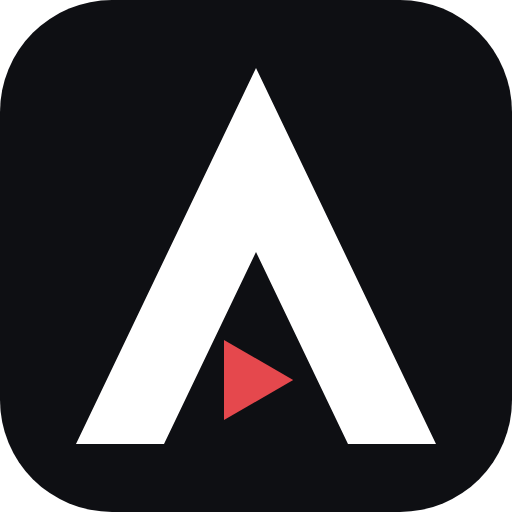
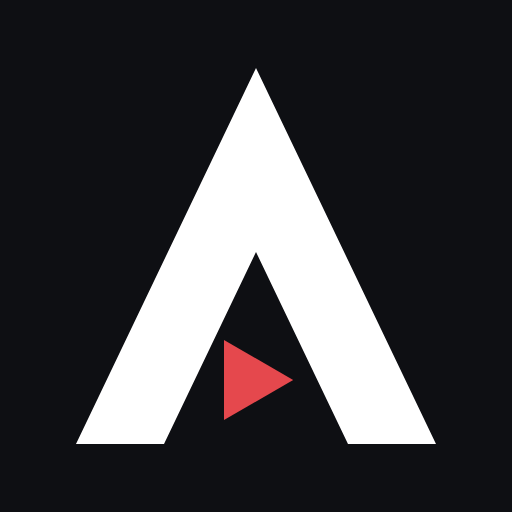
feat: пропуск опенинга кнопкой поверх видео, пауза показывает панель, квадратный значок, версия 1.0.5
- «Пропустить опенинг» — только поверх видео справа снизу и только по таймингам aniskip: фокус сразу на кнопке,
  полоса убывает за 10 с. Кнопки в панели и догадки «+90 с» больше нет.
- Пауза любой кнопкой (и Play/Pause пульта) показывает компактную панель.
- Значок без прозрачных углов: ТВ заливал их белым.

Claude-Session: https://claude.ai/code/session_01U2gSN6nZ7tCKRWBsar24wb

diff --git a/src/AnimeGo.Tv/PlayerScreen.cs b/src/AnimeGo.Tv/PlayerScreen.cs
@@ -12,7 +12,7 @@ namespace AnimeGo.Tv
     // Источник не завёлся (ошибка, нет Playing за 10 с) — следующий. Позицию шлёт ProgressReporter.
     sealed partial class PlayerScreen : IScreen
     {
-        const int StartTimeoutSec = 10, IdleSec = 5, EndLeadSec = 10, Countdown = 5, SkipSec = 90, SkipUntilSec = 240;
+        const int StartTimeoutSec = 10, IdleSec = 5, EndLeadSec = 10, Countdown = 5;
 
         readonly App app;
         readonly int animeId, startNumber, startSec;
@@ -24,6 +24,8 @@ namespace AnimeGo.Tv
         readonly Rectangle blackout;
         readonly Label loading;
         readonly EndOverlay end;
+        readonly SkipOverlay skipOverlay;
+        Episode skipShownFor;      // кнопка поверх видео — один раз на серию
         // Таймеры EFL — в полях (GC), все останавливаются в Hide.
         readonly UiTimer tick = new UiTimer(), idle = new UiTimer(), watchdog = new UiTimer(), failTimer = new UiTimer();
 
@@ -64,6 +66,8 @@ namespace AnimeGo.Tv
             panel.Upcoming = (row, n) => row.Season.AnimeId == animeId ? Release.Of(seasons.Anime, n) : null;
             loading = ui.Text(Theme.Margin, Theme.H - Theme.Margin - 40, 600, 40, Theme.T(RuText.Loading, 26, Theme.MutedHex), false);
             end = new EndOverlay(ui) { Watch = WatchNext, Cancel = () => endCancelled = true };
+            skipOverlay = new SkipOverlay(ui);
+            panel.SetSkip(false);   // пропуск опенинга — только кнопкой поверх видео и только по таймингам aniskip
         }
 
         public void Show()
@@ -86,6 +90,7 @@ namespace AnimeGo.Tv
             FinishReporter();
             foreach (var t in new[] { tick, idle, watchdog, failTimer }) t.Stop();
             end.Hide();
+            skipOverlay.Hide();
             video.Stop();
             ui.Dispose();
         }
@@ -99,6 +104,7 @@ namespace AnimeGo.Tv
             FinishReporter();
             watchdog.Stop();
             end.Hide();
+            skipOverlay.Hide();
             video.Stop();
             number = num;
             episode = null;
@@ -305,7 +311,7 @@ namespace AnimeGo.Tv
             panel.SetPosition(video.TargetSec, d);
             UpdateOpening(d);
             var t = video.TargetSec;
-            panel.SetSkip(opening != null ? t >= opening.StartSec - 5 && t < opening.EndSec : t < SkipUntilSec);
+            MaybeShowSkip(t);
             if (d > 0 && p < d - EndLeadSec - 5) endCancelled = false;
             if (d > 0 && p >= d - EndLeadSec && video.IsPlaying && !endShown && !endCancelled) ShowEnd(false);
         }
@@ -343,6 +349,12 @@ namespace AnimeGo.Tv
             if (key.StartsWith("XF86Audio", StringComparison.Ordinal) || key == Keys.Exit) return false;   // громкость — телевизору
             if (failed) { if (key == Keys.Back) Exit(); return true; }
             if (end.Visible) return end.OnKey(key);
+            if (skipOverlay.Visible && !panel.Visible)
+            {
+                // Кнопка «Пропустить опенинг» поверх видео в фокусе: OK — пропустить, «Назад» — убрать.
+                if (key == Keys.Ok) { skipOverlay.Hide(); SkipOpening(); return true; }
+                if (key == Keys.Back) { skipOverlay.Hide(); return true; }
+            }
             if (!panel.Visible)
             {
                 // ↓ — полная панель с фокусом на кнопках; любая другая — компактная (полоса + кнопки внизу).
@@ -387,7 +399,6 @@ namespace AnimeGo.Tv
                     case EpisodePanel.Dub: OpenDubs(); break;
                     case EpisodePanel.Quality: OpenQuality(); break;
                     case EpisodePanel.Next: PlayNext(); break;
-                    case EpisodePanel.Skip: SkipOpening(); break;
                 }
                 return;
             }
@@ -407,6 +418,16 @@ namespace AnimeGo.Tv
             if (ep.Number != number || failed) { var _ = PlayEpisodeAsync(ep.Number, 0); }
         }
 
+        // Опенинг по aniskip начался, панель скрыта — кнопка поверх видео. Нет таймингов — нет и кнопки.
+        void MaybeShowSkip(int t)
+        {
+            if (skipShownFor == episode || panel.Visible || !video.IsPlaying || end.Visible || opening == null) return;
+            if (t < opening.StartSec || t >= opening.EndSec - 10) return;
+            skipShownFor = episode;
+            DevLog.Write("skip: кнопка поверх видео на " + t);
+            skipOverlay.Show();
+        }
+
         void TogglePause()
         {
             if (pending || failed || choice != null) return;   // под панелью выбора видео стоит
@@ -414,6 +435,8 @@ namespace AnimeGo.Tv
             {
                 video.Pause();
                 reporter?.Pause();
+                // Пауза любой кнопкой (и Play/Pause пульта) — панель: сразу видно, что команда сработала.
+                if (!panel.Visible) ShowPanel(EpisodePanel.Mode.Compact, EpisodePanel.Zone.Bar);
             }
             else if (video.IsPaused) video.Resume();
             UpdateButtons();
@@ -444,40 +467,21 @@ namespace AnimeGo.Tv
             panel.SetPosition(target, d);
         }
 
-        // «Пропустить опенинг» (спека §9): есть тайминги aniskip — на конец опенинга. Нет — учимся по нажатиям: первое
-        // запоминает, где у тайтла начинается опенинг; дальше нажатие до него (или в первые 10 с) — сразу за опенинг.
+        // «Пропустить опенинг» (спека §9): только по таймингам aniskip — на конец опенинга. Без них кнопки нет.
         void SkipOpening()
         {
-            if (pending || failed || episode == null) return;
+            if (pending || failed || episode == null || opening == null) return;
             var pos = video.TargetSec;
-            if (opening != null && pos < opening.EndSec)
-            {
-                DevLog.Write("skip: " + pos + " → " + opening.EndSec + " (aniskip)");
-                SeekBy(opening.EndSec - pos, true);
-                return;
-            }
-            var at = app.Prefs.OpeningAt(app.UserKey, animeId);
-            int target;
-            if (at != null && pos <= at.Value + 10)
-            {
-                target = at.Value + SkipSec;
-                DevLog.Write("skip: " + pos + " → " + target + " (опенинг с " + at + ")");
-            }
-            else
-            {
-                target = pos + SkipSec;
-                // Запоминаем только более раннее начало: позднее нажатие (уже посреди опенинга) не портит выученное.
-                var learn = pos < SkipUntilSec && (at == null || pos < at.Value);
-                if (learn) { app.Prefs.SetOpeningAt(app.UserKey, animeId, pos); app.SavePrefs(); }
-                DevLog.Write("skip: " + pos + " → " + target + (learn ? " (запомнил опенинг с " + pos + ")" : ""));
-            }
-            SeekBy(target - pos, true);
+            if (pos >= opening.EndSec) return;
+            DevLog.Write("skip: " + pos + " → " + opening.EndSec + " (aniskip)");
+            SeekBy(opening.EndSec - pos, true);
         }
 
         // ---- панель ----
 
         void ShowPanel(EpisodePanel.Mode mode, EpisodePanel.Zone zone)
         {
+            skipOverlay.Hide();   // в панели своя кнопка «Пропустить опенинг»
             panel.SetPosition(video.TargetSec, Duration);
             panel.Show(mode, zone);
             Toast.Raise();   // панель поднимает свои виджеты наверх — плашка не должна оказаться под ней

diff --git a/src/AnimeGo.Tv/SkipOverlay.cs b/src/AnimeGo.Tv/SkipOverlay.cs
@@ -1,0 +1,59 @@
+using AnimeGo.Core;
+using ElmSharp;
+
+namespace AnimeGo.Tv
+{
+    // «Пропустить опенинг» поверх видео справа снизу, когда опенинг начался: фокус сразу на ней (OK — пропустить),
+    // полоса внутри убывает за Seconds — так видно, что кнопка скоро исчезнет. Панель плеера при этом скрыта.
+    sealed class SkipOverlay
+    {
+        public const double Seconds = 10;
+        const int W = 380, H = 76, R = H / 2, X = Theme.W - Theme.Margin - W, Y = Theme.H - 96 - H;
+        static readonly Color Back = Color.FromHex("#16181e"), Fill = Color.FromHex("#7a2a30");   // непрозрачные: под кольцом фокуса белая подложка
+
+        readonly Widgets ui;
+        readonly Polygon ring, back, fill;
+        readonly Label text;
+        readonly UiTimer timer = new UiTimer();
+        long shownAt;
+
+        public bool Visible { get; private set; }
+
+        public SkipOverlay(Widgets ui)
+        {
+            this.ui = ui;
+            ring = ui.RoundFocus(X, Y, W, H, R, Back, false);   // белое кольцо фокуса — кнопка всегда «в фокусе»
+            back = ui.RoundRect(X, Y, W, H, R, Back, false);
+            fill = ui.RoundRect(X, Y, W, H, R, Fill, false);
+            text = ui.Text(X, Y + (H - 38) / 2, W, 40, Theme.T(RuText.SkipOpening, 26, bold: true, align: "center"), false);
+        }
+
+        public void Show()
+        {
+            Visible = true;
+            shownAt = Clock.Ms;
+            Widgets.Shape(fill, X, Y, W, H, R);
+            ui.ShowFocus(ring, true);
+            back.Show(); fill.Show(); text.Show();
+            timer.Start(0.1, Step, true);
+        }
+
+        // Полоса убывает справа налево; дошла до нуля — кнопка уходит.
+        void Step()
+        {
+            var left = 1 - (Clock.Ms - shownAt) / (Seconds * 1000);
+            if (left <= 0) { Hide(); return; }
+            var w = (int)(W * left);
+            if (w < H) fill.Hide();   // уже скругления — не рисуем, иначе форма ломается
+            else Widgets.Shape(fill, X, Y, w, H, R);
+        }
+
+        public void Hide()
+        {
+            timer.Stop();
+            Visible = false;
+            ui.ShowFocus(ring, false);
+            back.Hide(); fill.Hide(); text.Hide();
+        }
+    }
+}

diff --git a/src/AnimeGo.Core/Stash.cs b/src/AnimeGo.Core/Stash.cs
@@ -8,7 +8,7 @@ namespace AnimeGo.Core
     public static class AppInfo
     {
         public const string Package = "ru.animego.tv";
-        public const string Version = "1.0.4";   // = version в tizen-manifest.xml (проверяет тест; меняет scripts/release.sh)
+        public const string Version = "1.0.5";   // = version в tizen-manifest.xml (проверяет тест; меняет scripts/release.sh)
     }
 
     // Ответ REST-API телевизора http://<tv>:8001/api/v2/ — нужное из него.

diff --git a/README.ru.md b/README.ru.md
@@ -83,4 +83,4 @@ TV=<ip-тв>:26101 scripts/deploy.sh Debug  # Debug-сборка шлёт DevLog
 - Источники пробуются по порядку CVH → AniBoom → Kodik; плеер Kodik разобран вручную и может сломаться, когда они его поменяют.
 - Родная клавиатура телевизора из приложения работает ненадёжно, поэтому своя.
 - Первая загрузка постеров после запуска занимает несколько секунд (WebP декодируется на ТВ), дальше — из кеша.
-- Пропуск опенинга берёт тайминги из [aniskip](https://aniskip.com), если они есть; иначе запоминает ваше первое нажатие на тайтле.
+- «Пропустить опенинг» появляется поверх видео, только если у [aniskip](https://aniskip.com) есть тайминги серии; покрытие неполное.

diff --git a/README.md b/README.md
@@ -83,4 +83,4 @@ Docs: [design spec](docs/superpowers/specs/2026-10-27-animego-tv-design.md) · [
 - Sources are tried in order CVH → AniBoom → Kodik; Kodik's player is reverse-engineered and may break when they change it.
 - The TV's native keyboard can't be used reliably from an app, so the app has its own.
 - The first poster load after launch takes a few seconds (WebP is decoded on the TV), then posters come from the cache.
-- Opening skip uses [aniskip](https://aniskip.com) timings when they exist; otherwise it learns from your first press on each title.
+- “Skip opening” appears over the video only when [aniskip](https://aniskip.com) has timings for the episode; coverage is partial.
